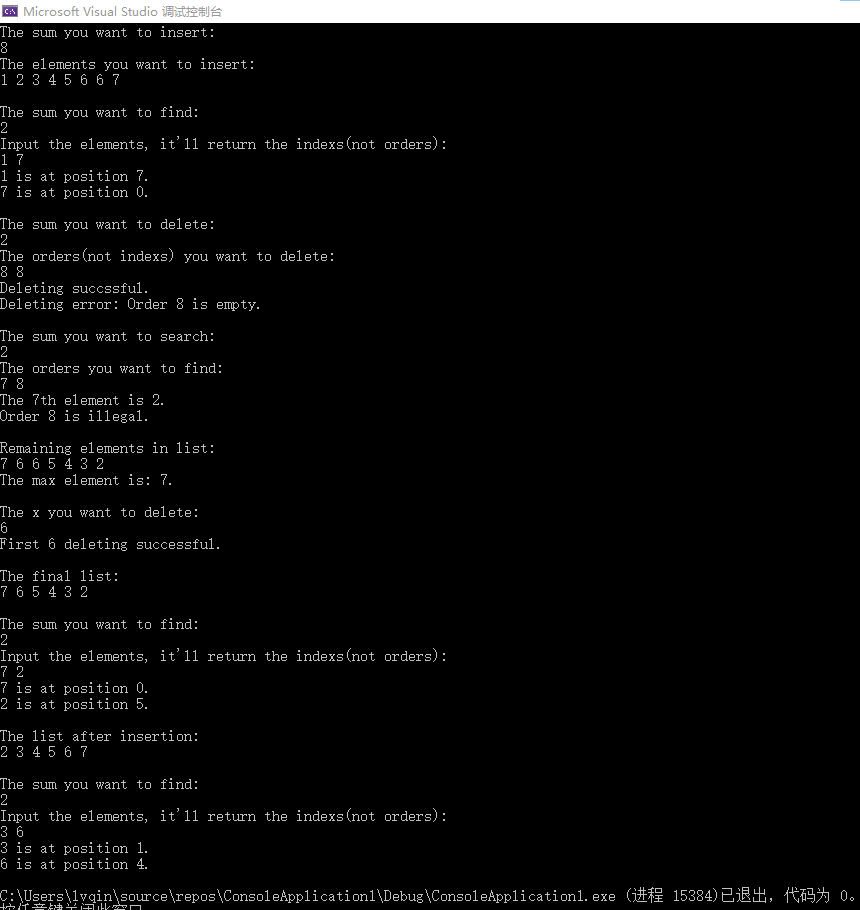
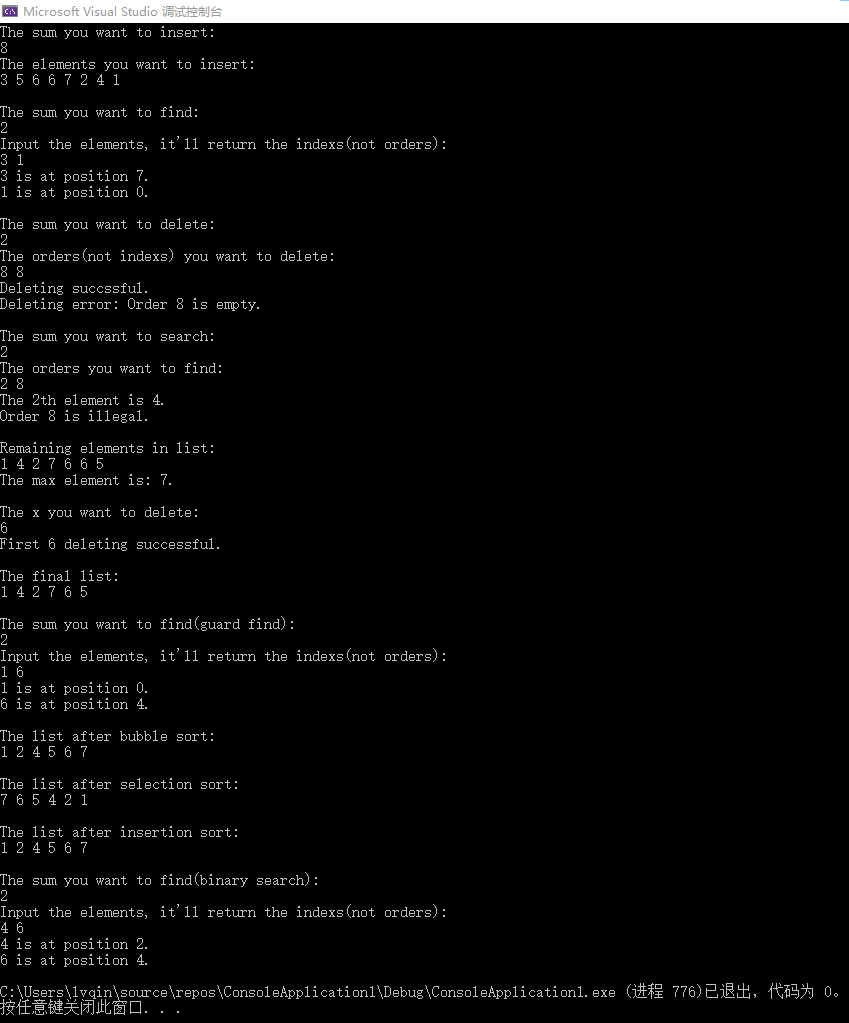
排序

diff --git a/1-1 顺序表.md b/1-1 顺序表.md
@@ -40,6 +40,8 @@ void Print(List L);
 ElementType ReturnMaxElem(List L);
 Bool DeleteFirstX(List L, ElementType X);
 Position GuardFind(List L, ElementType X);
+void BubbleSort(List L);
+void SelectionSort(List L);
 void InsertionSort(List L);
 Position BinarySearch(List L, ElementType X);
 
@@ -129,7 +131,7 @@ int main() {
 	Print(L);
 	printf("\n\n");
 	//GuardFind
-	printf("The sum you want to find: \n");
+	printf("The sum you want to find(guard find): \n");
 	scanf("%d", &n);
 	printf("Input the elements, it'll return the indexs(not orders): \n");
 	while (n--) {
@@ -144,13 +146,23 @@ int main() {
 		}
 	}
 	printf("\n");
+	//BubbleSort
+	BubbleSort(L);
+	printf("The list after bubble sort: \n");
+	Print(L);
+	printf("\n\n");
+	//SelectionSort
+	SelectionSort(L);
+	printf("The list after selection sort: \n");
+	Print(L);
+	printf("\n\n");
 	//InsertionSort
 	InsertionSort(L);
-	printf("The list after insertion: \n");
+	printf("The list after insertion sort: \n");
 	Print(L);
 	printf("\n\n");
 	//BinarySearch
-	printf("The sum you want to find: \n");
+	printf("The sum you want to find(binary search): \n");
 	scanf("%d", &n);
 	printf("Input the elements, it'll return the indexs(not orders): \n");
 	while (n--) {
@@ -261,6 +273,30 @@ Position GuardFind(List L, ElementType X) {
 	return i == L->last + 1 ? ERROR : i;
 }
 
+void BubbleSort(List L) {
+	for (Position i = 0; i <= L->last; ++i) {
+		for (Position j = 0; j < L->last; ++j) {
+			if (L->data[j] > L->data[j + 1]) {
+				ElementType temp = L->data[j];
+				L->data[j] = L->data[j + 1];
+				L->data[j + 1] = temp;
+			}
+		}
+	}
+}
+
+void SelectionSort(List L) {
+	for (Position i = 0; i < L->last; ++i) {
+		for (Position j = i + 1; j <= L->last; ++j) {
+			if (L->data[i] < L->data[j]) {
+				ElementType temp = L->data[i];
+				L->data[i] = L->data[j];
+				L->data[j] = temp;
+			}
+		}
+	}
+}
+
 void InsertionSort(List L) {
 	for (Position i = 1; i <= L->last; ++i) {
 		ElementType temp = L->data[i];
@@ -296,18 +332,18 @@ Position BinarySearch(List L, ElementType X) {
 
 ```
 8
-1 2 3 4 5 6 6 7
+3 5 6 6 7 2 4 1
 2
-1 7
+3 1
 2
 8 8
 2
-7 8
+2 8
 6
 2
-7 2
+1 6
 2
-3 6
+4 6
 ```
 
 ## 调试结果
